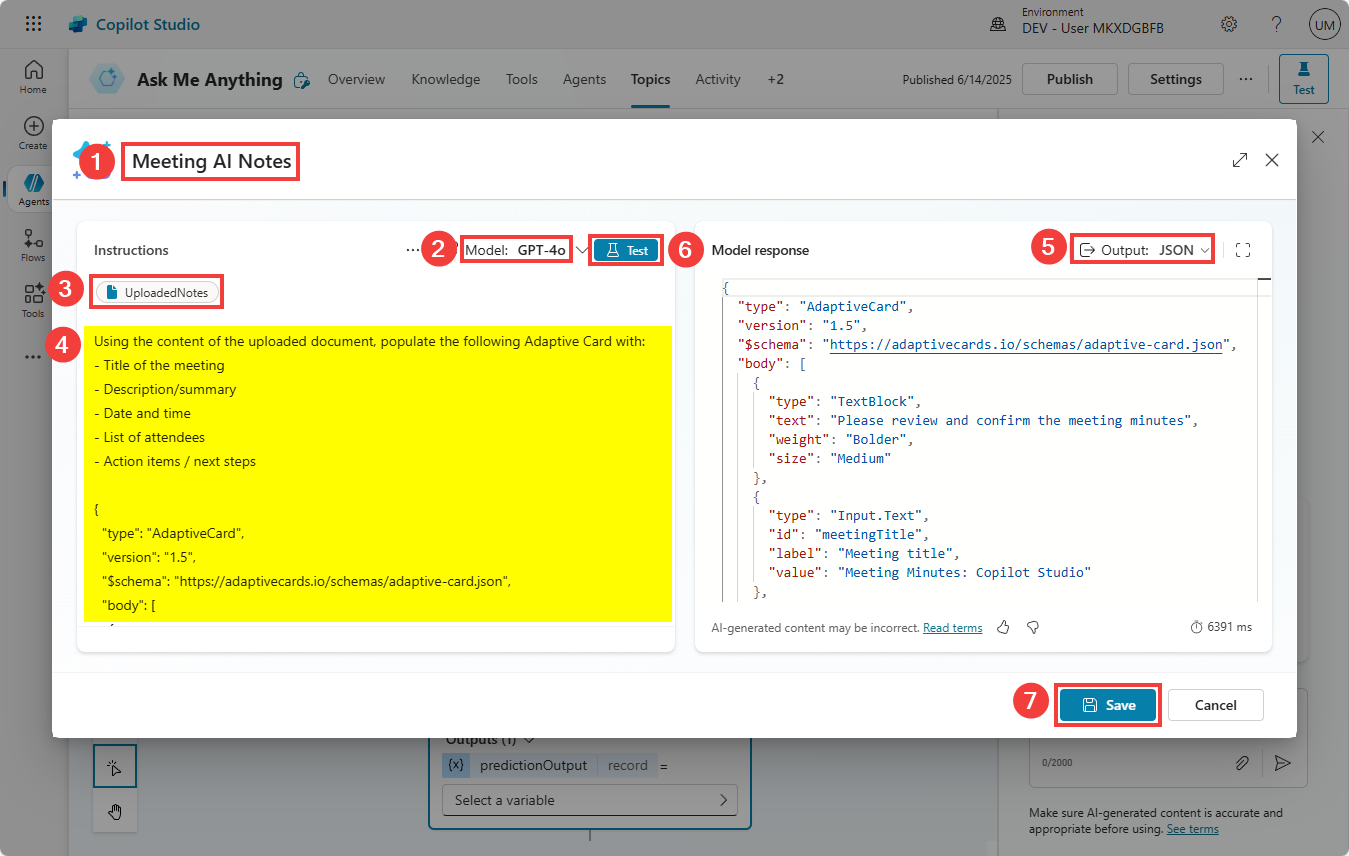
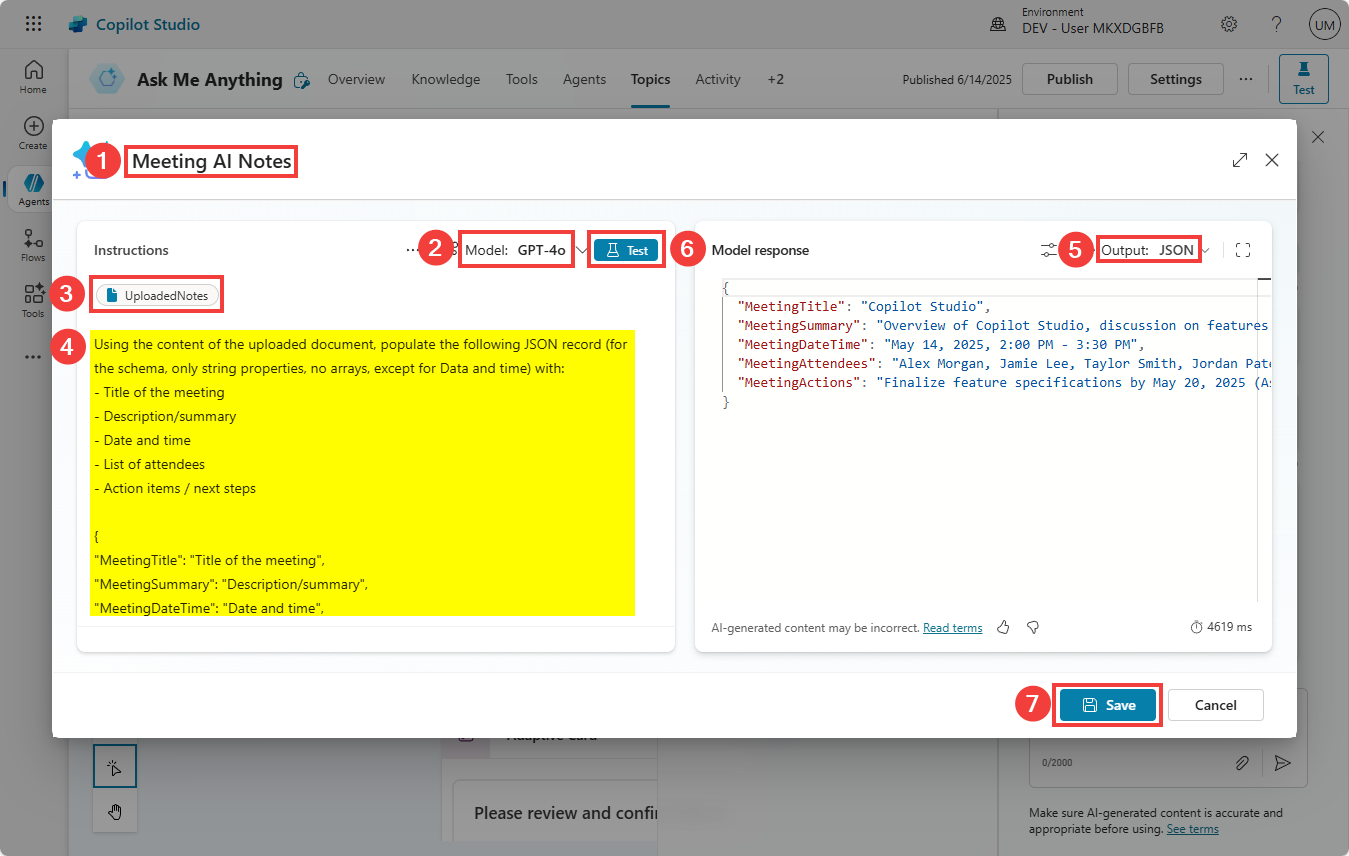
completed ama lab

diff --git a/labs/ask-me-anything/README.md b/labs/ask-me-anything/README.md
@@ -710,7 +710,7 @@ Use this tool to help users with meeting notes
 11. In the **Instructions**, just below **UploadedNotes**, paste:
 
   ```
-  Using the content of the uploaded document, populate the following Adaptive Card with:
+  Using the content of the uploaded document, populate the following JSON record (for the schema, only string properties, no arrays, except for Data and time) with:
   - Title of the meeting
   - Description/summary
   - Date and time
@@ -718,64 +718,17 @@ Use this tool to help users with meeting notes
   - Action items / next steps
 
   {
-    "type": "AdaptiveCard",
-    "version": "1.5",
-    "$schema": "https://adaptivecards.io/schemas/adaptive-card.json",
-    "body": [
-      {
-        "type": "TextBlock",
-        "text": "Please review and confirm the meeting minutes",
-        "weight": "Bolder",
-        "size": "Medium"
-      },
-      {
-        "type": "Input.Text",
-        "id": "meetingTitle",
-        "label": "Meeting title",
-        "value": "Title of the meeting"
-      },
-      {
-        "type": "Input.Text",
-        "id": "attendees",
-        "label": "Attendees",
-        "value": "List of attendees"
-      },
-      {
-        "type": "Input.Text",
-        "id": "date",
-        "label": "Date and time",
-        "value": "date"
-      },
-      {
-        "type": "Input.Text",
-        "id": "summary",
-        "label": "Meeting summary",
-        "isMultiline": true,
-        "value": "Description/summary"
-      },
-      {
-        "type": "Input.Text",
-        "id": "nextSteps",
-        "label": "Next steps",
-        "isMultiline": true,
-        "value": "Action items / next steps"
-      }
-    ],
-    "actions": [
-      {
-        "type": "Action.Submit",
-        "title": "Confirm minutes"
-      }
-    ]
+  "MeetingTitle": "Title of the meeting",
+  "MeetingSummary": "Description/summary",
+  "MeetingDateTime": "Date and time",
+  "MeetingAttendees": "List of attendees",
+  "MeetingActions": "Action items / next steps"
   }
   ```
 
 12. Change the **Output** to `JSON`
 
 13. **Test** your prompt
-
-> [!TIP]
-> What we're doing here is catching multiple birds with one stone. We first ask the AI to analyze the content of the file (this could also be a picture of handwritten notes), we then ask it to structure them (title, description, actions, dates, etc.) and we ask it to output it as an Adaptive Card JSON, so that we can immediately use it in a subsequent step that we will use to ask the user to validate the AI version of the notes, or to edit them before submitting them.
 
 14. **Save** your prompt
 
@@ -785,29 +738,103 @@ Use this tool to help users with meeting notes
 
 15. In the **Prompt** node, choose the `File` variable as the input for **UploadedNotes**.
 
-16. **Create** a new variable for the output of the prompt node, and rename it `MeetingAINotesCard`
+16. **Create** a new variable for the output of the prompt node, and rename it `MeetingAINotes`
 
 17. Add a new node, **Ask with Adaptive Card**
 
-18. Go to **Adaptive Card** node property.
+18. Go to **Adaptive Card** node **properties**.
 
-20. Toggle from **JSON card** to `Formula card`
+19. Select **Edit adaptive card**.
+
+20. In the **Card payload editor**, paste the below **JSON**:
+
+    ```json
+    {
+        "type": "AdaptiveCard",
+        "version": "1.5",
+        "$schema": "https://adaptivecards.io/schemas/adaptive-card.json",
+        "body": [
+            {
+                "type": "TextBlock",
+                "text": "Please review and confirm the meeting minutes",
+                "weight": "Bolder",
+                "size": "Medium"
+            },
+            {
+                "type": "Input.Text",
+                "id": "meetingTitle",
+                "label": "Meeting title",
+                "value": "<Replace with MeetingTitle>"
+            },
+            {
+                "type": "Input.Text",
+                "id": "attendees",
+                "label": "Attendees",
+                "value": "<Replace with MeetingAttendees>"
+            },
+            {
+                "type": "Input.Text",
+                "id": "date",
+                "label": "Date and time",
+                "value": "<Replace with MeetingDateTime>"
+            },
+            {
+                "type": "Input.Text",
+                "id": "summary",
+                "label": "Meeting summary",
+                "isMultiline": true,
+                "value": "<Replace with MeetingSummary>"
+            },
+            {
+                "type": "Input.Text",
+                "id": "nextSteps",
+                "label": "Next steps",
+                "isMultiline": true,
+                "value": "<Replace with MeetingActions>"
+            }
+        ],
+        "actions": [
+            {
+                "type": "Action.Submit",
+                "title": "Confirm minutes"
+            }
+        ]
+    }
+    ```
+
+20. Select **Save** and **Close**.
 
 > [!TIP]
-> - This allows to use Power Fx to reference other variables, and so, to create dynamic Adaptive Cards.
-> - Notice how, if you had remained with the JSON option, the Adaptive Card editor offers a visual editor to create your own Adaptive Card experience with a no-code/low-code editor.
+> Notice how the Adaptive Card editor offers a visual editor to create your own Adaptive Card experience with a no-code/low-code editor.
 
-21. **Replace** the entire content for the formula with
+21. We now need to make the card dynamic to reference the content that was returned from the prompt. Toggle from **JSON card** to **Formula card**.
 
-    ```
-    Topic.MeetingAINotesCard.structuredOutput
-    ```
+22. **Expand** the formula for more screen real estate.
 
-21. **Save** your topic
-22. Test your agent – you can reuse the same Meeting Minutes.pdf: "Please upload your meeting notes"
+23. For each `"<Replace with ...>"`, **replace** with the matching `Topic.MeetingAINotes.structuredOutput.<property>` variable. 
+  
+    Don't forget to remove the double quotes.
+
+    ![alt text](images/adaptive-card-formula.png)
+
+24. **Save** your topic
+
+25. Add a new **Message** node, and paste:
+
+  ```
+  Thank you! I've successfully logged your meeting notes in our systems.
+  ```
+
+26. **Test** your agent. Try to modify the content directly in the adaptive card before selecting **Confirm minutes**.
+
+  ```
+  Please help me with my meeting notes
+  ```
+
+![alt text](images/meeting-notes-adaptive-card.png)
 
 > [!IMPORTANT]
-> Note: the lab ends here, but imagine storing these in system of record, for example Dataverse, as a next step, after the user has confirmed the content.
+> Note: the lab ends here, but imagine storing these in system of records, for example Dataverse, as a next step, after the user has confirmed the content.
 
 ---
 
